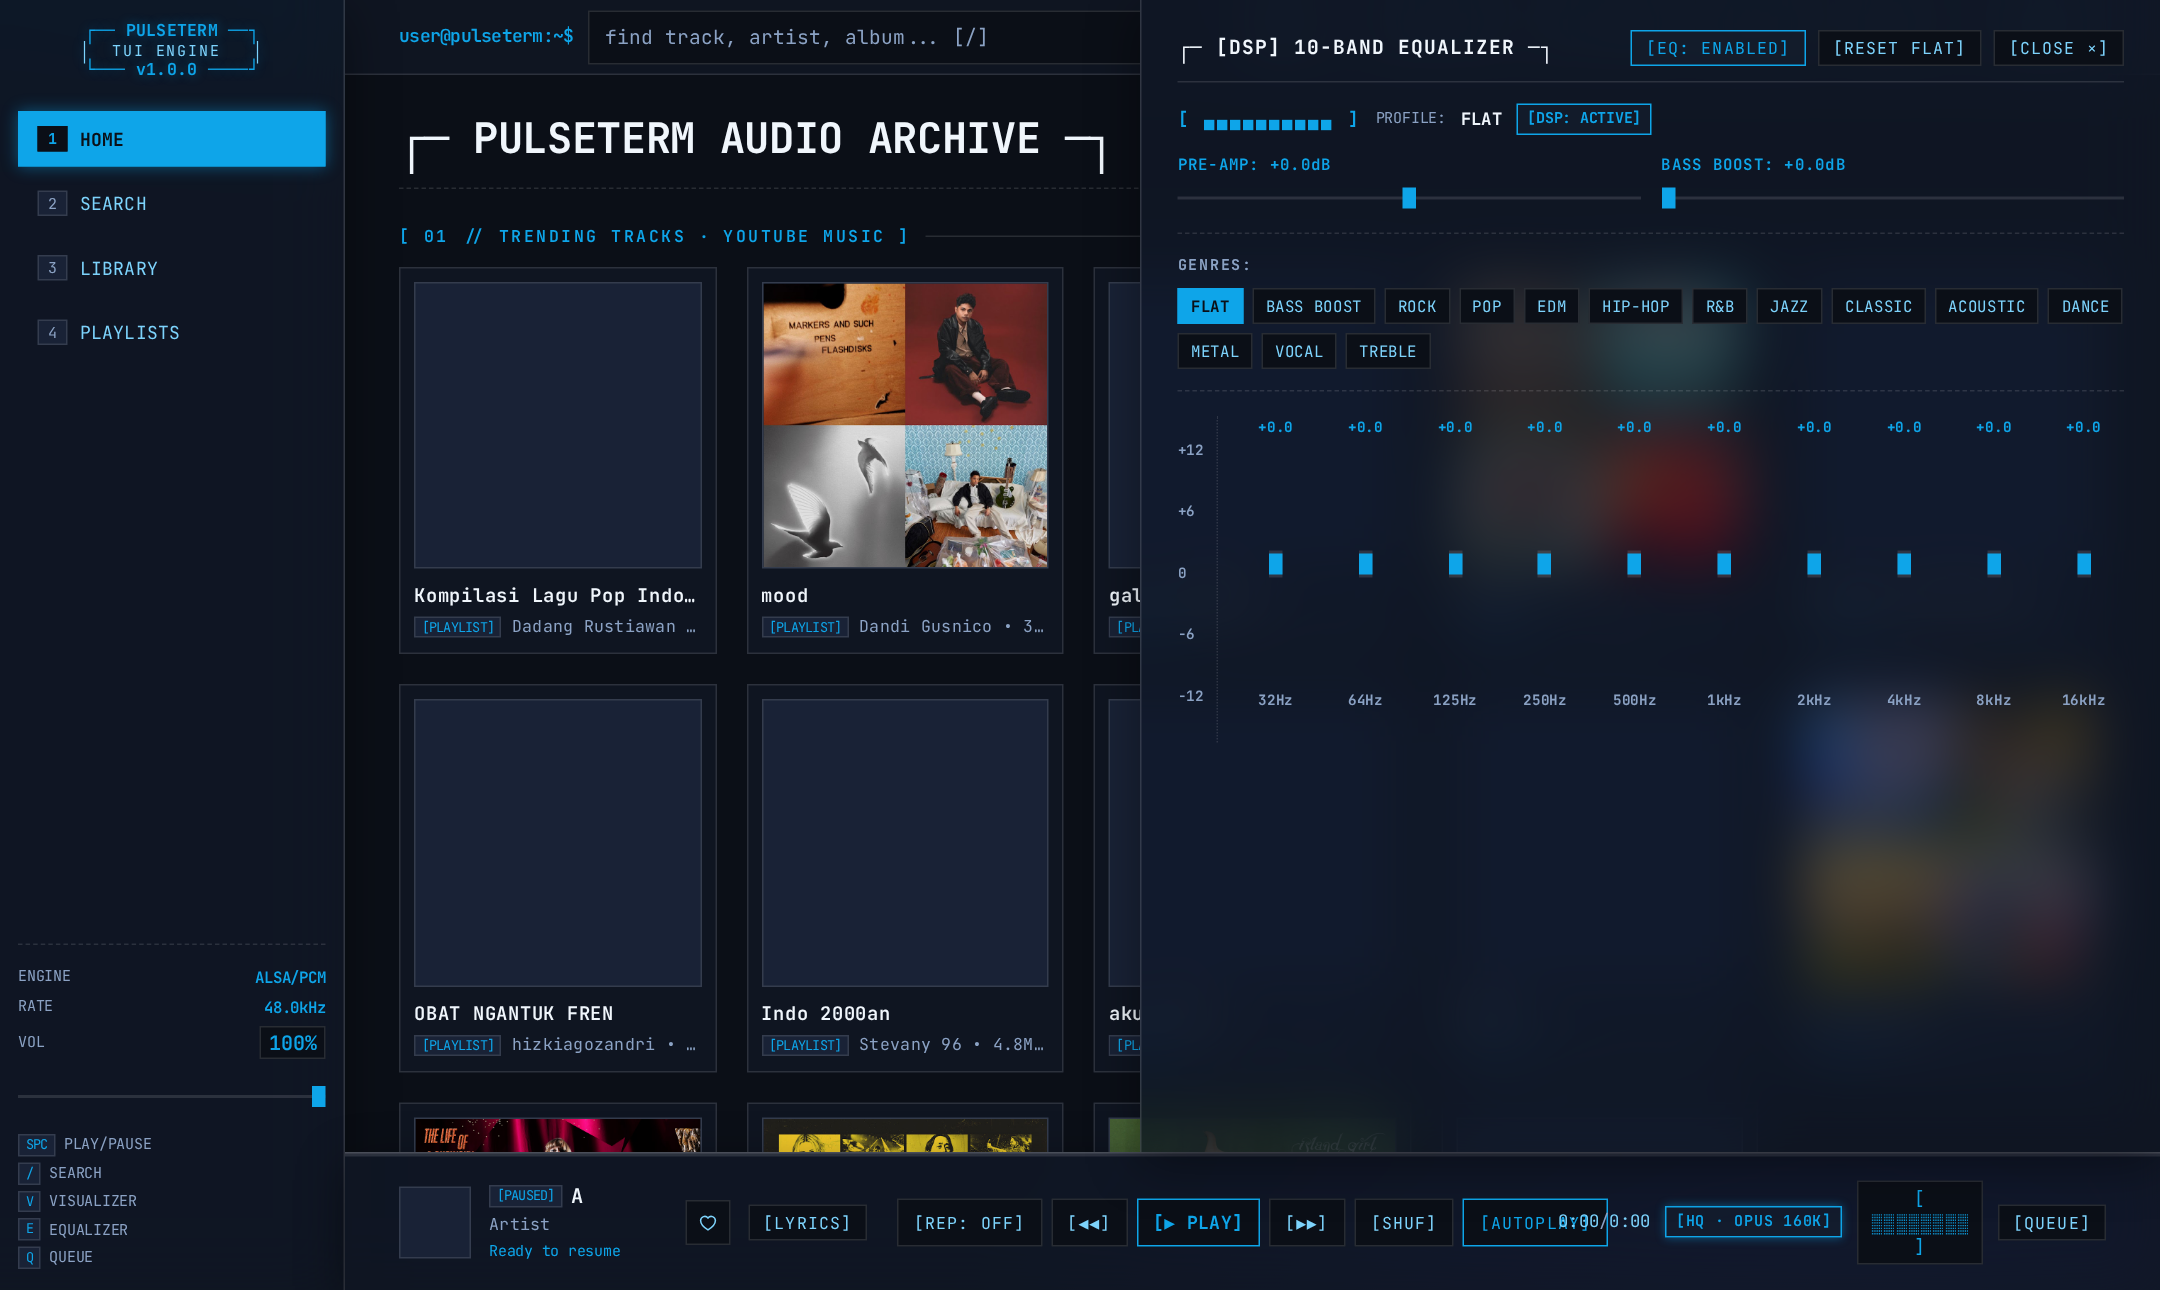
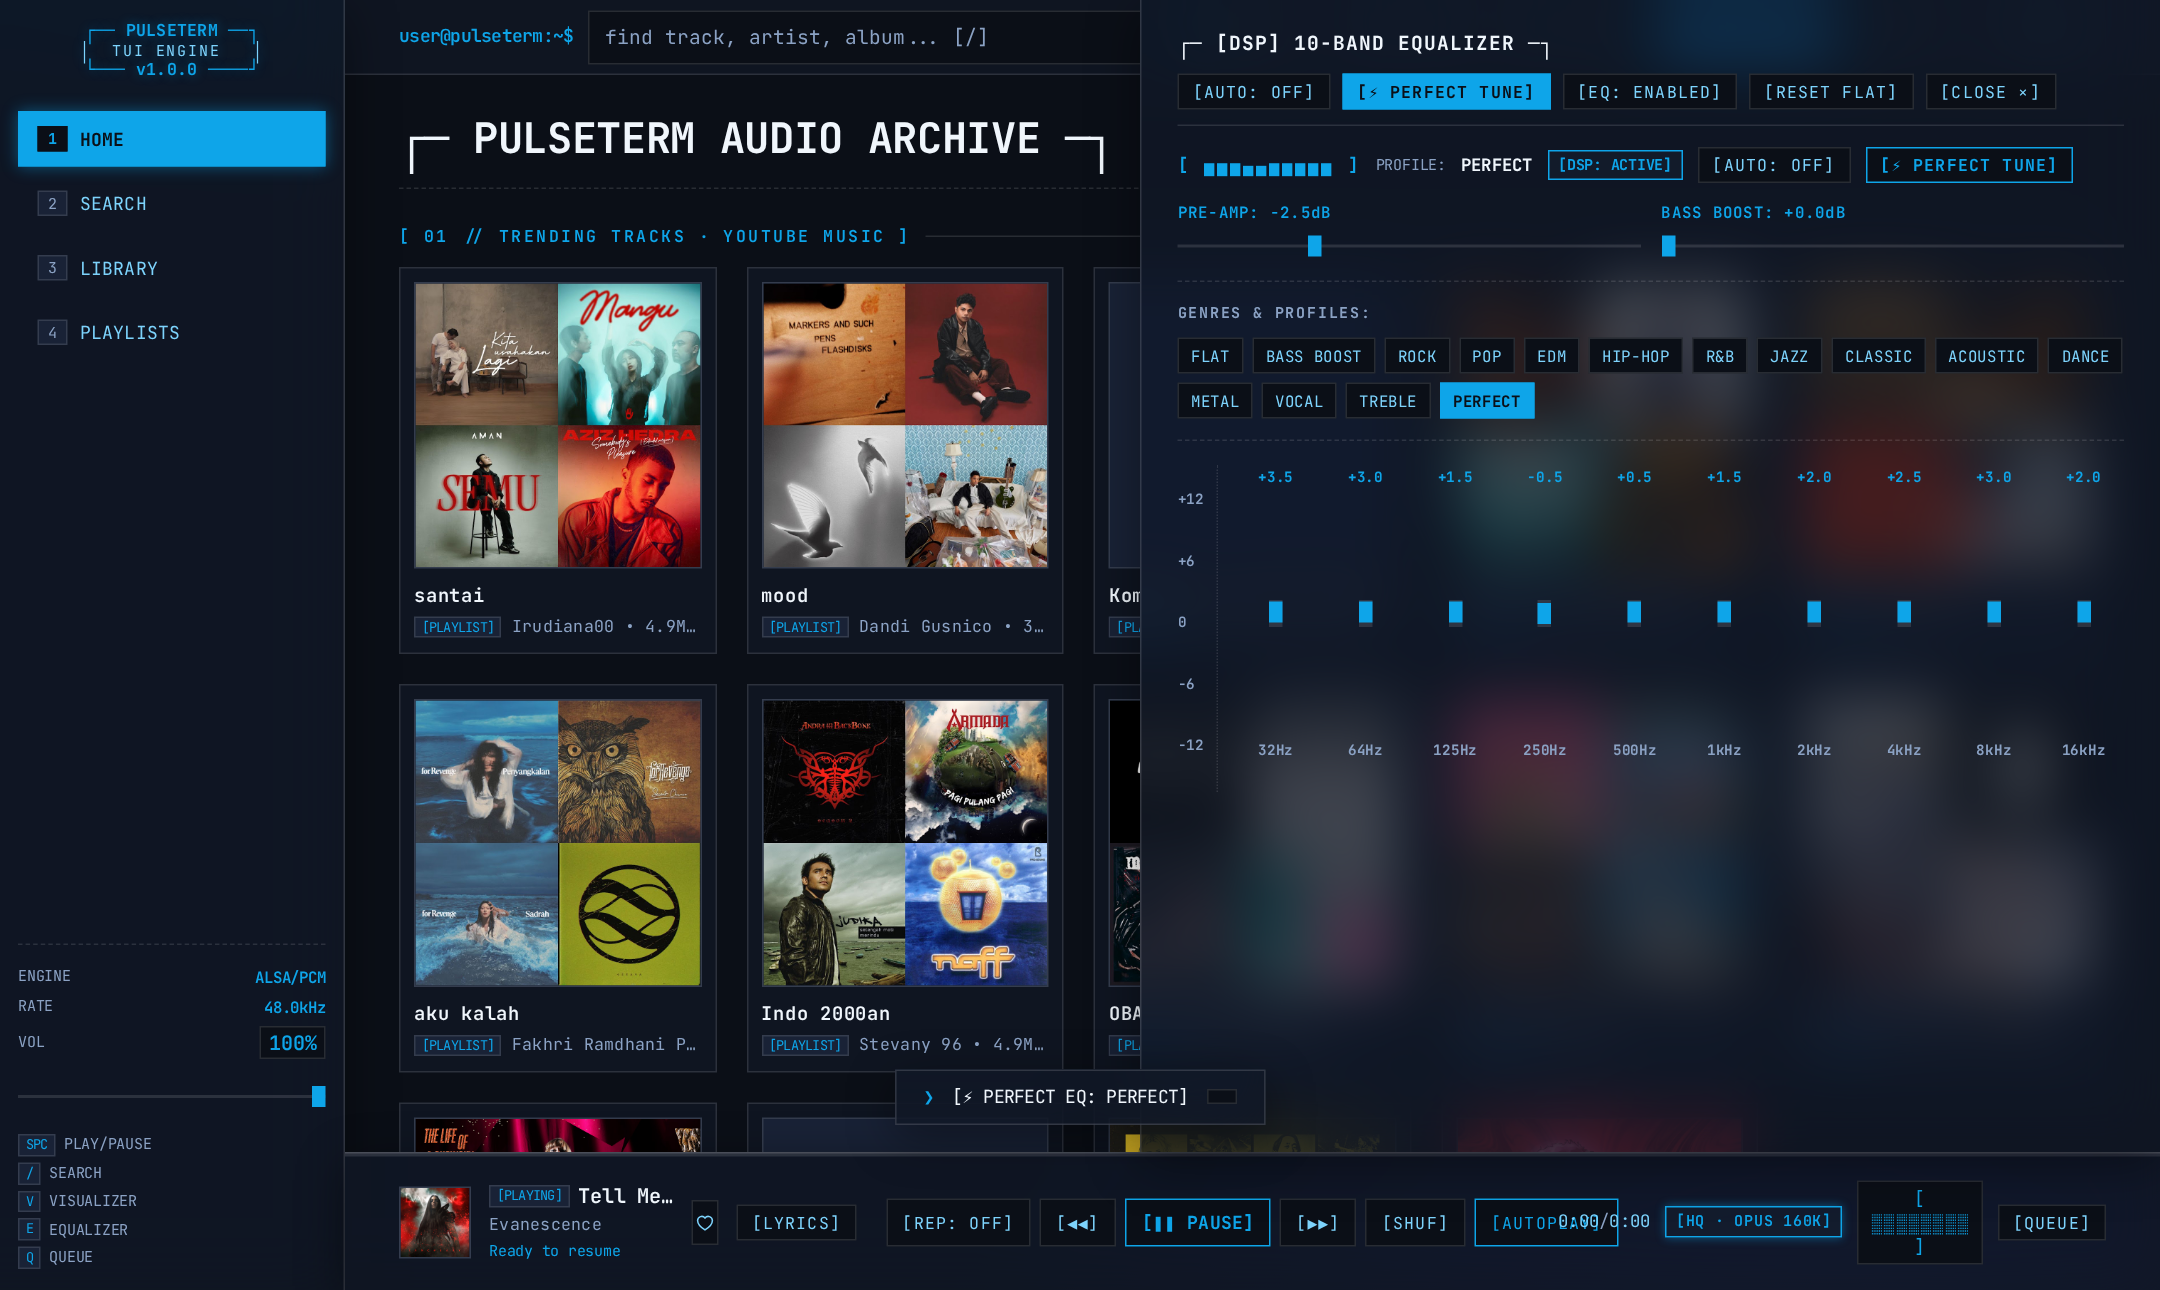
docs: refresh equalizer screenshot and documentation with Auto-EQ

diff --git a/README.md b/README.md
@@ -13,8 +13,8 @@ A high-performance, lightweight terminal-style YouTube Music audio player. Built
 
 ---
 
-### 2. 10-Band DSP Parametric Equalizer
-> 32Hz to 16kHz audio mastering with pre-amp headroom, bass booster, and 14 genre presets.
+### 2. 10-Band DSP Parametric Equalizer & Smart Auto-EQ
+> 32Hz to 16kHz audio mastering with real-time `[⚡ PERFECT TUNE]` calibration, `[AUTO: ON/OFF]` genre tracking, pre-amp headroom, and 14 studio presets.
 
 ![PulseTerm 10-Band Equalizer](docs/screenshots/equalizer.png)
 
